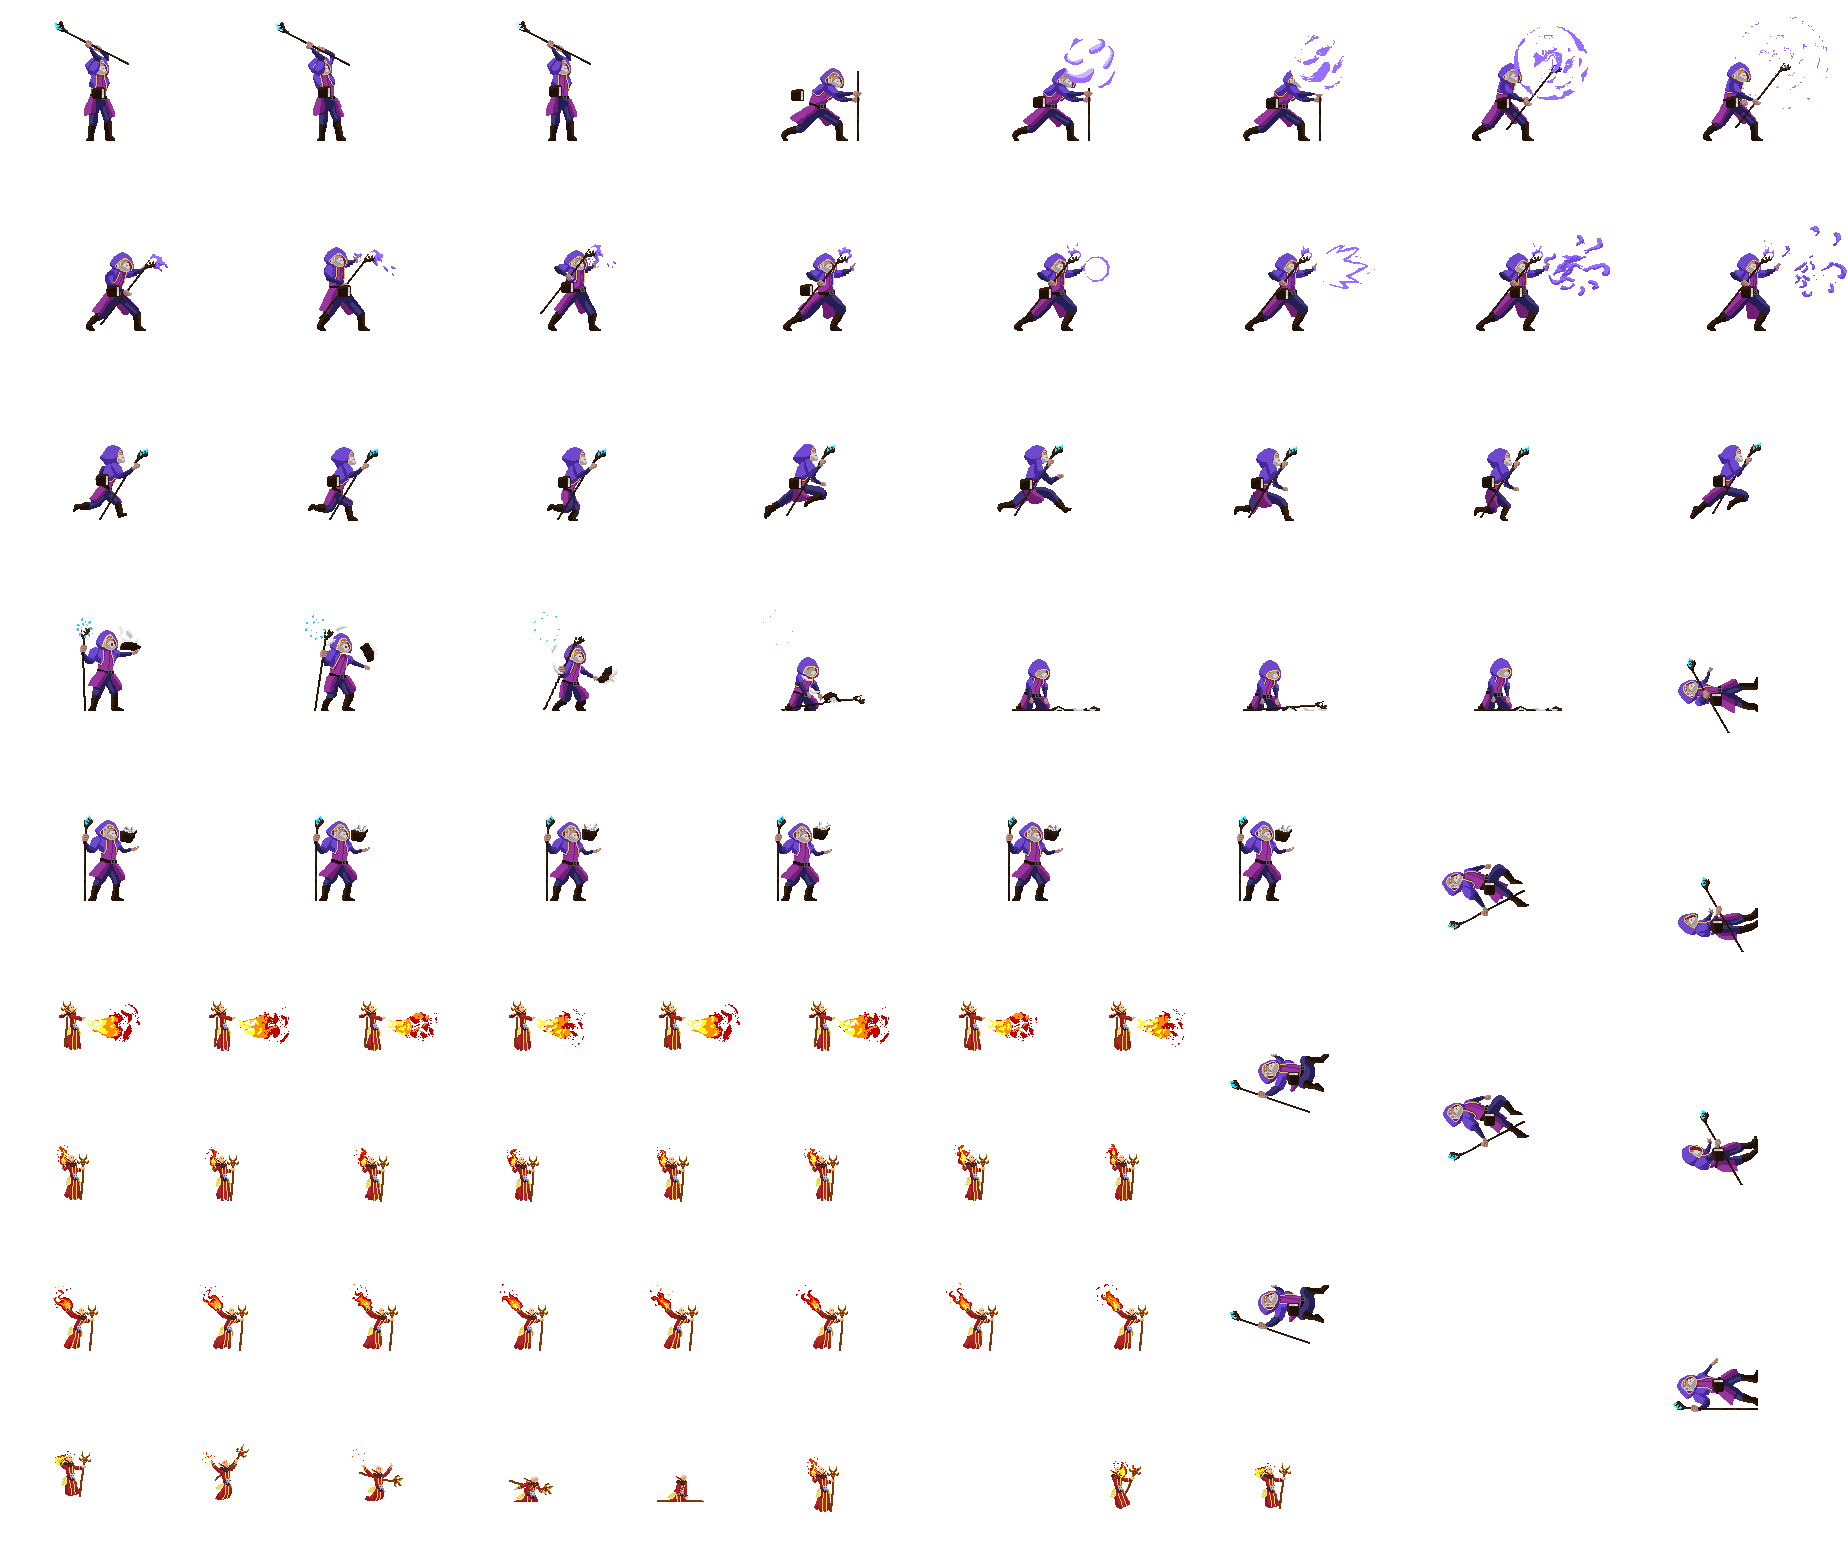
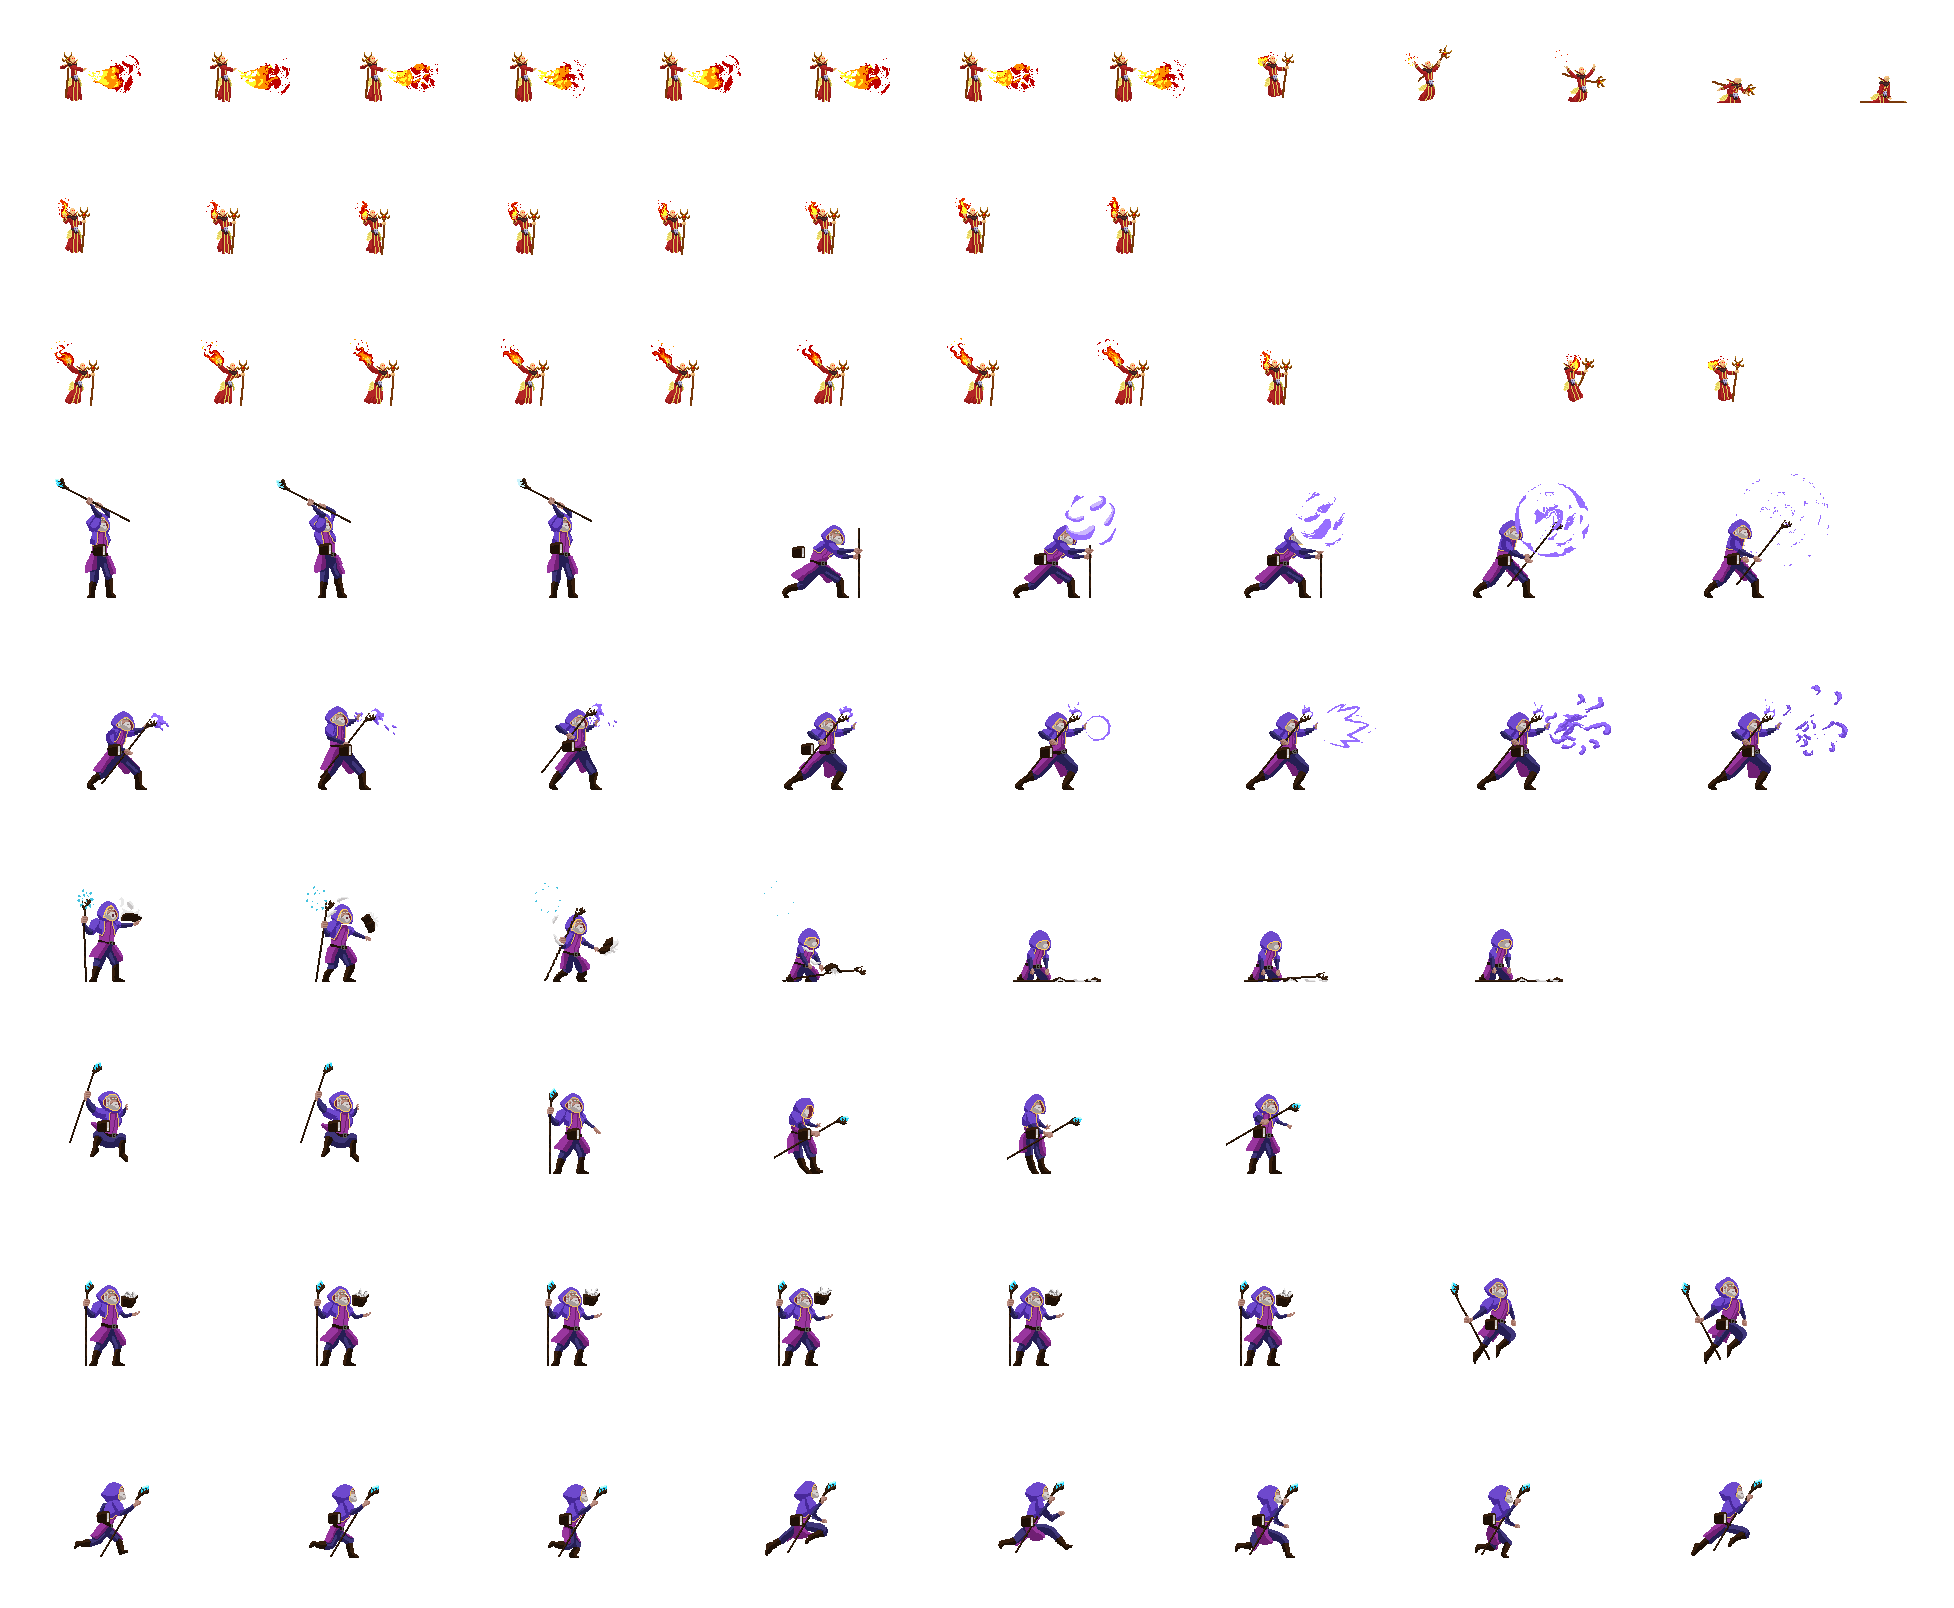
updated-atlas + placeholdeAnimation for testing
Still a lot of hardcoded stuff, positioning is still buggy

diff --git a/core/src/main/kotlin/no/ntnu/beardblaster/screen/GameplayScreen.kt b/core/src/main/kotlin/no/ntnu/beardblaster/screen/GameplayScreen.kt
@@ -16,9 +16,7 @@ import ktx.scene2d.textButton
 import no.ntnu.beardblaster.BeardBlasterGame
 import no.ntnu.beardblaster.ElementType
 import no.ntnu.beardblaster.WORLD_WIDTH
-import no.ntnu.beardblaster.assets.AtlasAsset
 import no.ntnu.beardblaster.assets.Nls
-import no.ntnu.beardblaster.assets.get
 import no.ntnu.beardblaster.hud.SpellBar
 import no.ntnu.beardblaster.hud.spellbar
 import no.ntnu.beardblaster.models.SpellCasting
@@ -34,7 +32,6 @@ class GameplayScreen(
     assets: AssetStorage,
     camera: OrthographicCamera,
 ) : BaseScreen(game, batch, assets, camera) {
-    private val atlas = assets[AtlasAsset.Wizards]
     private lateinit var quitBtn: TextButton
     private lateinit var fireElementBtn: Button
     private lateinit var iceElementBtn: Button
@@ -46,8 +43,9 @@ class GameplayScreen(
     private var evilWizard: WizardTexture = WizardTexture()
     private enum class Phase {
         PREP,
-        ACTION,
-        WAIT
+        ACTION1,
+        ACTION2,
+        ACTION3
     }
     private lateinit var gamePhase: Phase
     override fun initScreen() {
@@ -57,8 +55,7 @@ class GameplayScreen(
     }
 
     private fun initPreparationPhase() {
-
-        goodWizard.setAnimation(100f, 100f, assets , WizardTextures.GoodWizardIdle)
+        goodWizard.setAnimation(0f, 0f, assets , WizardTextures.GoodWizardIdle)
         spellCasting = SpellCasting()
         quitBtn = scene2d.textButton(Nls.quit())
         fireElementBtn = scene2d.button(ElementType.Fire.name)
@@ -99,15 +96,34 @@ class GameplayScreen(
 
 
     private fun initActionPhase() {
-        val table = smallTable().apply {
-
+        val table = fullSizeTable().apply {
+            background = skin[Image.Background]
+            add(headingLabel("FIGHT"))
+            row()
+            row()
+            row()
+            add(bodyLabel("BOOM, BLAST, POOF, BEARD GONE"))
         }
-        //When prep. phase is done this needs to be updated to update and not clear the stage
+        //When prep. phase is done this needs to be changed to update and not clear the stage
         stage.clear()
         stage.addActor(table)
-        goodWizard.setAnimation(0f,0f, assets, WizardTextures.GoodWizardAttack2)
-        evilWizard.setAnimation(0f, camera.viewportWidth - 400f, assets, WizardTextures.EvilWizardTakeHit)
+
+        //If wizardA attacks first -> wizardA.setAnimation(Attack) + wizardB.setAnimation(takeHit)
+        //If wizardA | B is dead -> setAnimation(dead)
+        goodWizard.setAnimation(0f,0f, assets, WizardTextures.GoodWizardAttack1)
+        evilWizard.setAnimation(0f, 0f, assets, WizardTextures.EvilWizardTakeHit)
     }
+
+    private fun initSecondActionPhase() {
+        goodWizard.setAnimation(0f,0f, assets, WizardTextures.GoodWizardHit)
+        evilWizard.setAnimation(0f, 0f, assets, WizardTextures.EvilWizardAttack)
+    }
+
+    private fun initSecondDeathPhase() {
+        goodWizard.setAnimation(0f,0f, assets, WizardTextures.GoodWizardIdle)
+        evilWizard.setAnimation(0f, 0f, assets, WizardTextures.EvilWizardDeath)
+    }
+
 
     override fun setBtnEventListeners() {
         quitBtn.onClick {
@@ -128,51 +144,53 @@ class GameplayScreen(
     }
 
     override fun update(delta: Float) {
-
         goodWizard.update(delta)
         evilWizard.update(delta)
-        if (gamePhase == Phase.PREP) {
-            countDownTimer -= delta
-        }
+
+        countDownTimer -= delta
 
         val table = smallTable().apply {
             background = skin[Image.TimerSlot]
             add(bodyLabel(countDownTimer.toInt().toString()))
         }
         if (countDownTimer <= 10) {
-            /*stage.addActor(bodyLabel(countDownTimer.toInt().toString()))*/
             stage.addActor(table)
         }
 
         if (countDownTimer <= 0 && gamePhase == Phase.PREP) {
-            gamePhase = Phase.ACTION
-            if (gamePhase == Phase.ACTION) {
-                initActionPhase()
-            }
+            gamePhase = Phase.ACTION1
+            initActionPhase()
 
+        }
+        if (countDownTimer <= -5f && gamePhase == Phase.ACTION1) {
+            gamePhase = Phase.ACTION2
+            initSecondActionPhase()
+        }
+
+        if (countDownTimer <= -10f && gamePhase == Phase.ACTION2){
+            gamePhase = Phase.ACTION3
+            initSecondDeathPhase()
         }
         camera.update()
     }
 
     override fun render(delta: Float) {
         update(delta)
+        stage.act(delta)
+        stage.draw()
         if (gamePhase == Phase.PREP)
         {
             batch.use() {
                 it.projectionMatrix = camera.combined
-                it.draw(goodWizard.getWizard(), -340f,-200f, goodWizard.getBounds().width*5, goodWizard.getBounds().height*5)
+                it.draw(goodWizard.getWizard(), -300f, -200f, goodWizard.getBounds().width*5f, goodWizard.getBounds().height*5f)
                 }
         }
-        if (gamePhase == Phase.ACTION) {
+        if (gamePhase != Phase.PREP) {
             batch.use() {
-                /*it.projectionMatrix = camera.combined*/
-                it.draw(goodWizard.getWizard(), -340f,-200f, goodWizard.getBounds().width*5, goodWizard.getBounds().height*5)
-                it.draw(evilWizard.getWizard(), camera.viewportWidth - evilWizard.getBounds().width + 300f, -340f, -evilWizard.getBounds().width*9, evilWizard.getBounds().height*9)
+                it.draw(goodWizard.getWizard(), -300f,-200f, goodWizard.getBounds().width*4f, goodWizard.getBounds().height*4f)
+                it.draw(evilWizard.getWizard(), camera.viewportWidth - evilWizard.getBounds().width + 520f, -440f, -evilWizard.getBounds().width*9, evilWizard.getBounds().height*9)
 
             }
         }
-        stage.act(delta)
-        stage.draw()
-
     }
 }

diff --git a/core/src/main/kotlin/no/ntnu/beardblaster/sprites/WizardTexture.kt b/core/src/main/kotlin/no/ntnu/beardblaster/sprites/WizardTexture.kt
@@ -4,7 +4,6 @@ import com.badlogic.gdx.graphics.g2d.TextureRegion
 import com.badlogic.gdx.math.Rectangle
 import com.badlogic.gdx.math.Vector3
 import ktx.assets.async.AssetStorage
-import ktx.log.debug
 import ktx.log.logger
 import no.ntnu.beardblaster.assets.AtlasAsset
 import no.ntnu.beardblaster.assets.get
@@ -17,39 +16,45 @@ class WizardTexture {
     private lateinit var bounds: Rectangle
 
     fun setAnimation(x: Float, y: Float, assets: AssetStorage, wizardTexture: WizardTextures) {
-        var framecount = 0
+        var frameCount = 0
+        var cycleTime = 0.7f
         when (wizardTexture) {
-            WizardTextures.GoodWizardAttack2 -> framecount = 8
-            WizardTextures.GoodWizardAttack1 -> framecount = 8
-            WizardTextures.GoodWizardIdle -> framecount = 6
-            WizardTextures.EvilWizardTakeHit -> framecount = 4
+            //Could define spesific cycle times for animations as well
+            WizardTextures.GoodWizardAttack2 -> frameCount = 8
+            WizardTextures.GoodWizardAttack1 -> frameCount = 8
+            WizardTextures.GoodWizardIdle -> frameCount = 6
+            WizardTextures.GoodWizardHit -> frameCount = 4
+            WizardTextures.GoodWizardDeath -> frameCount = 7
+            WizardTextures.GoodWizardFall -> frameCount = 2
+            WizardTextures.GoodWizardJump -> {
+                frameCount = 2
+                cycleTime = 1.2f
+            }
+            WizardTextures.GoodWizardRun -> frameCount = 8
+            WizardTextures.EvilWizardDeath -> frameCount = 5
+            WizardTextures.EvilWizardTakeHit -> frameCount = 4
+            WizardTextures.EvilWizardAttack -> frameCount = 8
+            WizardTextures.EvilWizardIdle -> frameCount = 8
         }
         val atlas = assets[AtlasAsset.Wizards]
         val region = atlas[wizardTexture]
-        this.animation = Animation(region, framecount, 0.8f)
+        this.animation = Animation(region, frameCount, 0.8f)
         this.position = Vector3(x, y, 0f)
-        this.bounds = Rectangle(x, y, region.regionWidth.toFloat() / framecount, region.regionHeight.toFloat())
-        log.debug { "Wizard: $wizardTexture " }
+        this.bounds = Rectangle(x, y, region.regionWidth.toFloat() / frameCount, region.regionHeight.toFloat())
+
     }
 
     fun update(deltaTime: Float){
-        log.debug { "Wizard Update" }
-        print("Wizard Update ran")
         if (::animation.isInitialized) {
             animation.update(deltaTime)
         }
-
     }
-
     fun getWizard(): TextureRegion? {
-        log.debug { "Wizard GetFrame" }
         return animation.getFrame()
     }
     fun getPosition(): Vector3? {
-        return position
+            return position
     }
-
-
     fun getBounds(): Rectangle {
         return bounds
     }

diff --git a/core/src/main/kotlin/no/ntnu/beardblaster/sprites/Animation.kt b/core/src/main/kotlin/no/ntnu/beardblaster/sprites/Animation.kt
@@ -2,7 +2,6 @@ package no.ntnu.beardblaster.sprites
 
 import com.badlogic.gdx.graphics.g2d.TextureRegion
 import com.badlogic.gdx.utils.Array
-import ktx.log.debug
 import ktx.log.logger
 import no.ntnu.beardblaster.screen.GameplayScreen
 
@@ -28,7 +27,6 @@ class Animation {
 
 
     fun update(deltaTime: Float) {
-        log.debug { "Animation Update" }
         currentFrameTime += deltaTime
         if (currentFrameTime > maxFrameTime) {
             frame++
@@ -40,7 +38,6 @@ class Animation {
     }
 
     fun getFrame(): TextureRegion? {
-        log.debug { "Animation GetFrame" }
         return frames?.get(frame)
     }
 }

diff --git a/core/src/main/kotlin/no/ntnu/beardblaster/sprites/Textures.kt b/core/src/main/kotlin/no/ntnu/beardblaster/sprites/Textures.kt
@@ -8,7 +8,6 @@ enum class WizardTextures(val atlasKey: String) {
     EvilWizardIdle("evil_wizard_idle"),
     EvilWizardMove("evil_wizard_move"),
     EvilWizardTakeHit("evil_wizard_take_hit"),
-    EvilWizardAttack1("good_wizard_attack1"),
 
     GoodWizardAttack1("good_wizard_attack1"),
     GoodWizardAttack2("good_wizard_attack2"),
